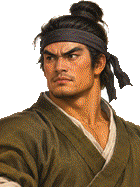
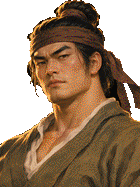
武松头像换成黑底新图，留行者装原图；§15.13.7 专属头像清单
Claude-Session: https://claude.ai/code/session_01LM4pJAtAAHpx6x7qpXF4fp

diff --git a/docs/game-design.md b/docs/game-design.md
@@ -1292,7 +1292,7 @@ packs/wusong/
    - AI：`aiPrefer` 列出的技能没用过时优先用（老虎轮着出一扑、一掀、一剪）。
    - 技能借原版技能的类型、范围、特效和声音（`from`），只改名字和数值；出手动画用包里的图条，命中位置写成动画的 0–1（换算成原版 45 ms 一帧的帧号）。
    - 图条只有正面、背面两个方向；和原版一样，正面图条面向左下 = 朝向 2、背面面向右上 = 朝向 0，朝向 3、1 水平翻转（`sprites.ts packAnim`；2026-11-14 修正，之前把左右弄反了）。
-2. ✓ 武松（3D 渲染、分层衣物）和老虎的图条（§15.6）。武松头像：负责人用 AI 出图（2026-11-14，原图 `packs/wusong/faces/src/wusong.jpg`），`tools/make-portrait.py` 裁切、去白底、缩到 140×187、抖动缩色到 `Default.pal`，pack.json 写 `"face": {"file": "faces/wusong.png"}`（也可以 `{"fromHead": n}` 借原版头像）；老虎不显示头像。数值：`tools/sim-pack.ts` 让我方也按 AI 打（不防御、不反击），30 局约赢一半，过关 7–11 回合；真人会防御、反击、休息，应该更容易。还没做：新音效（虎啸、哨棒折断）、关卡 BGM（现在借 `tense`）。
+2. ✓ 武松（3D 渲染、分层衣物）和老虎的图条（§15.6）。武松头像：负责人用 AI 出图（2026-11-14 白底一版，抠图有毛边；2026-11-15 换成黑底加轮廓光的新图，原图 `packs/mainline/faces/src/wusong.jpg`，`--black 10 --box 150,0,990,1122`；同时出的行者装原图 `wusong-xingzhe.jpg` 留给以后蜈蚣岭等关），`tools/make-portrait.py` 裁切、去底、缩到 140×187、抖动缩色到 `Default.pal`，pack.json 写 `"face": {"file": "faces/wusong.png"}`（也可以 `{"fromHead": n}` 借原版头像）；老虎不显示头像。数值：`tools/sim-pack.ts` 让我方也按 AI 打（不防御、不反击），30 局约赢一半，过关 7–11 回合；真人会防御、反击、休息，应该更容易。还没做：新音效（虎啸、哨棒折断）、关卡 BGM（现在借 `tense`）。
 3. 编写指南 `packs/README.md`。
 4. **历史候选**：关卡编辑器 `editor.html`。2026-11-15 已决定不做地图编辑器，采用配方工具（§15.15.6–15.15.7）；不列为当前待办。
 
@@ -1821,6 +1821,14 @@ packs/wusong/
 - **江州**（`packs/jiangzhou`）：新职业 `lvfang`（徒弟 67 紫 → 红）、`guosheng`（67 紫 → 白，k 1.4）、`zhangshun`（阮小五 NPC 51，背心、裤子 → 白，k 1.25）、`lijun`（阮小二 NPC 50，青绿 80–95 → 藏青 144–156，k 0.6）、`zhangheng`（渔人 21，灰 16–31 → 赭红 176–191）、`yanshun`（头领 65，灰蓝 / 浅蓝 → 赭红）、`huangwenbing`（陆谦 64，金橙袍 → 墨绿 64–79，k 0.75）。属性照他们原来借的职业（吕方郭盛 = 教头 39，张顺 = 刺客 66，李俊燕顺 = 头领 65，张横 = 渔人 21，黄文炳 = 官吏 36），招式取新底子自己的出手动作并改名（方天画戟 / 画戟挑，分水刀 / 浪里钻 / 换气，混江叉 / 翻江 / 聚气，船叉 / 掷叉，朴刀 / 连斩 / 回旋斩 / 聚气）。法场、白龙庙、浔阳楼的单位已改用新职业。
 - 对照图：项目文件 `shuihu-design/screens/recolor-plan/batch1-before-after.png`（生成脚本在同目录 `src/`，读 `specs.json`，用的是游戏里同一个 `recolorLut`）。
 - 孟州、鸳鸯楼、清风寨的人物等关卡开工时再做。
+
+#### 15.13.7 专属头像（负责人 2026-11-15）
+
+换色角色的头像先借原版（`fromHead`），重要的再由负责人用 AI 出黑底胸像（做法见 §15.6 末「头像（黑底）」，每人画风不同、各开一个对话生成）。提示词在项目文件 `shuihu-design/prompts/`。
+
+- 已有专属头像：武松（2026-11-15 重做）、戴宗、李逵、蔡九、阎婆惜、西门庆、潘金莲。
+- 负责人 2026-11-15 定做（提示词 `portraits-batch2.md`）：王婆、武大郎、花荣（我方可操作，原来 `face: null` 没有头像）、蒋门神（原借杜迁 69，鸳鸯楼里与杜迁同脸）、孙二娘、燕顺（原借 65，与朱贵同脸）。
+- 后续候选：张都监（借高俅 56）、施恩、张青、张团练；江州吕方 / 郭盛 / 郑天寿同借 67，黄信没有头像，可先改借别的原版头像。
 
 > 以下为早期策划与讨论记录；与上面的实现记录不一致时，以实现记录为准。未落地的候选不因此转为已实现。
 
